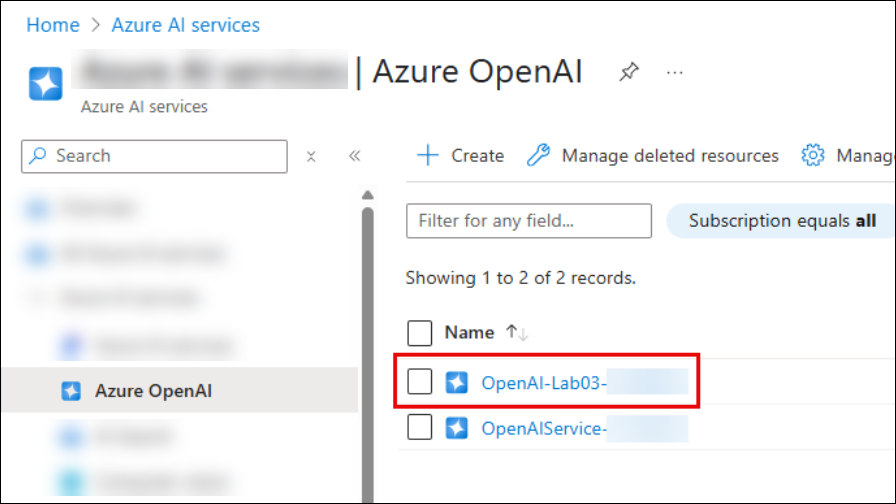
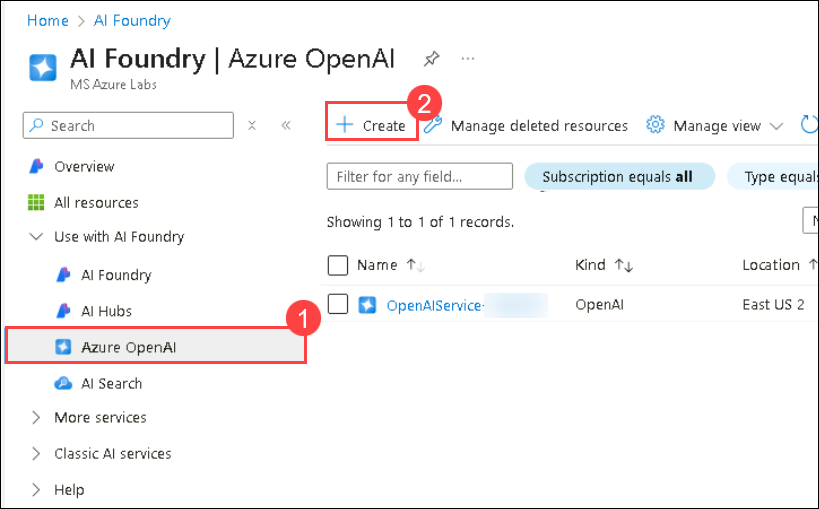
Update

diff --git a/Instructions/Labs/prompt-eng-2-vscode.md b/Instructions/Labs/prompt-eng-2-vscode.md
@@ -26,9 +26,9 @@ In this task, you'll create an Azure resource in the Azure portal, selecting the
 
    ![](../media/17-12-24(1).png)
 
-2. On **Azure AI services | Azure OpenAI** blade, click on **+ Create**.
+2. On **Azure AI foundry | Azure OpenAI** blade, click on **+ Create**.
 
-   ![](../media/create-openai.png)
+   ![](../media/lab-03upd1.png)
 
 3. Create an **Azure OpenAI** resource with the following settings 
 
@@ -78,9 +78,9 @@ In this task, you'll deploy a specific AI model instance within your Azure OpenA
 
    ![](../media/17-12-24(1).png)
 
-2. On **Azure AI services | Azure OpenAI** blade, select **OpenAI-Lab03-<inject key="Deployment-ID" enableCopy="false"></inject>**
+2. On **Azure AI foundry | Azure OpenAI** blade, select **OpenAI-Lab03-<inject key="Deployment-ID" enableCopy="false"></inject>**
 
-   ![](../media/lab-03.png)
+   ![](../media/lab-03upd2.png)
 
 1. In the Azure OpenAI resource pane, click on **Go to Azure AI Foundry portal**. It will navigate to the **Azure AI Foundry portal**.
 
@@ -267,11 +267,11 @@ In this task, you will integrate with an Azure OpenAI model by using a short com
 
 1. Click on **File (1)** and select **Open Folder (2)**.
 
-      ![](../../Scenario/Media/sem1.png)
+      ![](../media/sem1.png)
 
 1. Navigate to **`C:/Users/azureuser` (1)**, select **azure-openai (2)** and click on **Select Folder (3)**.
 
-   ![](../../Scenario/Media/sem2.png)
+   ![](../media/sem2.png)
 
 ### Task 5: Configure your application
 
@@ -279,7 +279,7 @@ In this task, you will complete key parts of the provided C# or Python applicati
 
 1. Navigate to `Labfiles/03-prompt-engineering` from the left navigation pane.
 
-   ![](../../Scenario/Media/app1.png)
+   ![](../media/app1.png)
    > **Note:** Applications for both C# and Python have been provided, as well as a text files that provide the prompts. Both apps feature the same functionality.
 
 1. In the code editor, expand the **CSharp** or **Python** folder, depending on your language preference. Each folder contains the language-specific files for an app into which you're you're going to integrate Azure OpenAI functionality.
@@ -315,8 +315,18 @@ In this task, you will complete key parts of the provided C# or Python applicati
     ```bash
     cd Python
     choco install python --force
+    pip install python-dotenv
+    [Environment]::SetEnvironmentVariable("Path", "$env:Path;C:\Python313;C:\Python313\Scripts", "Machine")
     ```
-    > **Note:** Restart the VScode once python packages are installed
+    > **Note:** Once the Python packages are installed and the environment variables are configured, restart VS Code.
+
+1. After restarting VS Code following the installation of Python packages, open a new terminal and run the following command to install the dotenv package.
+
+    **Python**
+
+    ```bash
+    pip install python-dotenv
+    ```
 
 1. Enter the following command to add the `Azure.AI.OpenAI` NuGet package to your project, which is necessary for integrating with Azure OpenAI services.
 
@@ -686,6 +696,7 @@ In this task, you will run your configured app to send a request to your model a
     \n Include a list of the current animals we have at our rescue after the signature, in the form of a table. These animals include elephants, zebras, gorillas, lizards, and jackrabbits.
     ```
     > **Note:** You will see a pop-up, click on **Paste as one line**
+    ![](../media/email1.png)
 
 10. Observe the output, and see how the email has changed based on your clear instructions.
 11. Next, enter the following prompts where we add details about tone to the system message:
